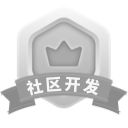
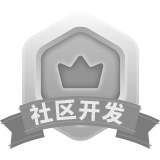
首页勋章和媒体新建调整

Changed region(s): [[0.0, 0.125, 1.0, 0.9375], [0.3438, 0.3125, 0.6562, 0.5625]]

diff --git a/src/components/superOperate/superOperate_index.vue b/src/components/superOperate/superOperate_index.vue
@@ -3,7 +3,14 @@
     <div class="ad_index_container">
         <div class="index-top-row">
             <div class="left-layout">
-                <personal-info :cityRank='cityRank' :user-info="userInfo" :honor-img="companyHonor" :linkArr="linkArrNew"></personal-info>
+                <personal-info :cityRank='cityRank' :user-info="userInfo" :honor-img="companyHonor" :linkArr="linkArrNew" :imgSize="[72, 72]">
+                    <template slot-scope="{showImgNum}">
+                        <el-tooltip v-for="(item,index) of companyHonor" :key="index" effect="dark" placement="top">
+                            <span v-if="item.title" slot="content">{{item.title}}</span>
+                            <img v-show="index < showImgNum" style="width: 72px; height: 72px;" :src="item.url" :alt="item.title" :title="item.title">
+                        </el-tooltip>
+                    </template>
+                </personal-info>
                 <div class="card-group">
                     <el-row :gutter="24" style="margin-bottom: 24px;">
                         <el-col :span="8"><chart-card :cardData="cardData1"></chart-card></el-col>
@@ -1185,28 +1192,28 @@
                 };
                 let tempCompanyHonor = {
                     topIncrResCnt: {
-                        title: '社区新开发TOP',
-                        url: require('../../assets/images/index/communityMedal.png'),
+                        title: '上月社区新开发TOP',
+                        url: require('../../assets/images/index/communityMedal.gif'),
                         urlFalse:require('../../assets/images/index/communityDefault.png')
                     },
                     topNationwideContract: {
-                        title: '全国销售额TOP',
-                        url: require('../../assets/images/index/saleMedal.png'),
+                        title: '上月全国销售额TOP',
+                        url: require('../../assets/images/index/saleMedal.gif'),
                         urlFalse:require('../../assets/images/index/saleDefault.png')
                     },
                     topNativeContract: {
-                        title: '本地销售额TOP',
-                        url: require('../../assets/images/index/localSaleMedal.png'),
+                        title: '上月本地销售额TOP',
+                        url: require('../../assets/images/index/localSaleMedal.gif'),
                         urlFalse:require('../../assets/images/index/localSaleDefault.png')
                     },
                     topOnPubRate: {
-                        title: '城市上刊率TOP',
-                        url: require('../../assets/images/index/skMedal.png'),
+                        title: '上月城市上刊率TOP',
+                        url: require('../../assets/images/index/skMedal.gif'),
                         urlFalse:require('../../assets/images/index/skDefault.png')
                     },
                     topPlanCnt: {
-                        title: '成单订单量TOP',
-                        url: require('../../assets/images/index/orderMedal.png'),
+                        title: '上月成单订单量TOP',
+                        url: require('../../assets/images/index/orderMedal.gif'),
                         urlFalse:require('../../assets/images/index/orderDefault.png')
                     }
                 }
@@ -1217,14 +1224,20 @@
                     )
                     .then((res) => {
                     if (res.data.SysCode === 200200) {
+                        let highlightArr = [],
+                            darkArr = [];
                         Object.keys(res.data.data).forEach(key=>{
                             if(tempCompanyHonor[key]) {
                                 if(res.data.data[key] == 0) {
                                     tempCompanyHonor[key].url = tempCompanyHonor[key].urlFalse
+                                    tempCompanyHonor[key].title = tempCompanyHonor[key].title+'(未获得)'
+                                    darkArr.push(tempCompanyHonor[key])
+                                } else {
+                                    highlightArr.push(tempCompanyHonor[key])
                                 }
-                                this.companyHonor.push(tempCompanyHonor[key])
                             }
                         })
+                        this.companyHonor = highlightArr.concat(darkArr)
                     } else {
                         sessFun.messageFun("warning", res.data.MSG);
                     }
@@ -2229,7 +2242,7 @@
         width: 12px;
         height: 12px;
         margin: 0 4px 0 24px;
-        border-radius: 1px;
+        border-radius: 2px;
     }
     .blue-diamond {
         background: #1890FF;
@@ -2309,11 +2322,8 @@
         align-items: center;
         justify-content: space-between;
         margin-bottom: 24px;
-        & > div {
-            // flex: 1;
-        }
         .date-interval {
-            margin: 0 24px 0 auto;
+            margin: 0 0 0 auto;
             font-size: 14px;
             font-weight: 400;
             color: rgba(0, 0, 0, 0.45);

diff --git a/src/components/common/mediaInput.vue b/src/components/common/mediaInput.vue
@@ -55,7 +55,6 @@
                                 <el-col :span="6" class="el_col_box">
                                     <el-form-item label="资源名称" prop="resname">
                                         <el-autocomplete
-                                            v-if="customPermission.resSearchPermission"
                                             v-model="recForm.resname"
                                             :fetch-suggestions="getResNameByFangJiaWang"
                                             placeholder=""
@@ -63,12 +62,7 @@
                                             @select="changeResName"
                                             @blur="blurFun('resname')">
                                         </el-autocomplete>
-                                        <el-input
-                                            v-else
-                                            v-model="recForm.resname"
-                                            clearable>
-                                        </el-input>
-                                        <el-button v-if="customPermission.resSearchPermission" size="small" type="primary" @click="getResBasicData" class="get_resName_btn"
+                                        <el-button size="small" type="primary" @click="getResBasicData" class="get_resName_btn"
                                                    v-qadn-mta-h5="{id: PathHaveEdit ? 'a002_b006_c000_d000_bt028_ck05' : 'a002_b004_c000_d000_bt019_ck05'}">
                                             检索</el-button>
                                     </el-form-item>
@@ -1335,7 +1329,8 @@
                 rowData: {},
                 changeBeforMediaState: '',
                 customPermission: {},  //巡点权限
-                queryTimeout: null
+                queryTimeout: null,
+                fangJiaWangPrivateCity: []// 房价网权限城市
             };
         },
         computed: {
@@ -1355,6 +1350,9 @@
                 }, 500);
             }
         },
+        created() {
+            this.getFangJiaWangCity()
+        },
         mounted: function () {
             this.customPermission = this.sessionData.customPermission;
             this.resUpdata = []
@@ -1363,6 +1361,22 @@
             this.getADLimit()   // 获取广告限制列表
         },
         methods: {
+            getFangJiaWangCity() {
+                let params = {
+                    "uid": this.sessionData.uID,
+                    "token": this.sessionData.token,
+                    "service": "GetResSearchCity",
+                    "data": {"asrID": this.sessionData.asrID}
+                }
+                api.postApi_new(this.apiVar.Media, params).then(res => {
+                    if (res.data.SysCode == 200200) {
+                        console.log('房价网权限城市', res)
+                        this.fangJiaWangPrivateCity = res.data.data || []
+                    } else {
+                        Message.warning(res.data.MSG);
+                    }
+                })
+            },
             handleClickMedia(tab, event){
                 console.log(tab, event)
             },
@@ -1405,6 +1419,12 @@
             },
             // 远程获取房价网的小区名称
             getResNameByFangJiaWang(queryString, callback){
+                let flag = this.fangJiaWangPrivateCity.some(item=>{
+                    return item.cityId == this.recForm.city[this.recForm.city.length-1]
+                })
+                if(!flag) {
+                    return
+                }
                 if(queryString){
                     if(this.resAddres.city){
                         let params = {
@@ -1454,6 +1474,13 @@
             },
             // 根据所选的资源名称拉取房价网数据
             getResBasicData() {
+                let flag = this.fangJiaWangPrivateCity.some(item=>{
+                    return item.cityId == this.recForm.city[this.recForm.city.length-1]
+                })
+                if(!flag) {
+                    sessFun.messageFun('warning',`没有权限访问对应的资源(您未开通城市${this.resAddres.city}的权限)`)
+                    return
+                }
                 if (this.recForm.resname !== '' && this.resAddres.area !== '' && this.resAddres.city !== '') {
                     let params = {
                         // uid: this.sessionData.uID,

diff --git a/src/components/common/components/personalInfo.vue b/src/components/common/components/personalInfo.vue
@@ -13,12 +13,12 @@
         </div>
         <div v-if="honorImg.length>0" class="line-vertical"></div>
         <div class="item-two" v-if="honorImg.length>0">
-            <img v-for="(item,index) of honorImg" :key="index" :src="item.url" :alt="item.title" :title="item.title">
+            <slot :showImgNum="showImgNum"></slot>
         </div>
-        <div class="overflow-img">●●●</div>
-        <div v-if="linkArr.length>0" class="line-vertical"></div>
+        <div v-show="showImgNum < honorImg.length && showImgNum > 0" class="overflow-img">●●●</div>
+        <div v-if="linkArr.length>0 && showImgNum > 0" class="line-vertical"></div>
         <div class="item-three">
-                <home-link class="cell-group" :link="linkArr"></home-link>
+            <home-link class="cell-group" :link="linkArr"></home-link>
         </div>
     </div>
 </template>
@@ -47,15 +47,36 @@
             cityRank: {
                 type: [String, Number],
                 default: ''
+            },
+            imgSize: {
+                type: Array,
             }
         },
         data() {
             return {
+                showImgNum: 0
+            }
+        },
+        watch: {
+            honorImg(val) {
+                // 数据更改并渲染时触发
+                this.$nextTick(()=>{
+                    this.honorImg.length && !this.showImgNum && this.setEllipsis()
+                })
             }
         },
         methods: {
+            setEllipsis() {
+                let imgGroupWidth = $('.item-two')[0]
+                if(!imgGroupWidth || !this.imgSize) return
+                imgGroupWidth = imgGroupWidth.getBoundingClientRect().width
+                this.showImgNum = Math.floor(imgGroupWidth / (this.imgSize[0]+10))
+            }
         },
         mounted() {
+            window.addEventListener("resize", ()=>{
+                this.setEllipsis()
+            })
         }
     }
 </script>
@@ -129,13 +150,16 @@ li {
     }
     .item-two {
         display: flex;
-        justify-content: space-between;
+        justify-content: flex-start;
+        flex-grow: 1;
         margin: 0 27px 0 -5px;
         overflow: hidden;
-        img {
-            margin: 0 5px;
+        .img-default-size {
             width: 51px;
             max-height: 62px;
+        }
+        img {
+            margin: 0 5px;
         }
     }
     .item-three {
@@ -157,20 +181,19 @@ li {
         background: rgba(241, 241, 241, 1);
     }
     .overflow-img {
-        display: none;
         width: 51px;
         margin: auto 27px auto 0;
         text-align: center;
         color: rgba(0, 0, 0, 0.2);
 
     }
-    @media screen and (max-width: 1420px) {
+    /* @media screen and (max-width: 1420px) {
         .overflow-img {
             display: block;
         }
         .item-two {
             width: 183px;
         }
-    }
+    } */
 }
 </style>

diff --git a/src/components/media/media_index.vue b/src/components/media/media_index.vue
@@ -3,7 +3,11 @@
 		<div class="ad_index_container">
 			<div class="index-top-row">
 				<div class="left-layout">
-					<personal-info :user-info="userInfo" :honor-img="companyHonor" :linkArr="linkArrNew"></personal-info>
+					<personal-info :user-info="userInfo" :honor-img="companyHonor" :imgSize="[51, 62]" :linkArr="linkArrNew">
+							<template slot-scope="{showImgNum}">
+								<img v-show="index < showImgNum" v-for="(item,index) of companyHonor" :key="index" style="width: 51px; height: 62px;" :src="item.url" :alt="item.title" :title="item.title">
+							</template>
+					</personal-info>
 					<div class="card-group">
 						<el-row :gutter="24" style="margin-bottom: 24px;">
 							<el-col :span="8"><chart-card :cardData="cardData1"></chart-card></el-col>

diff --git a/src/components/common/components/publishRate.vue b/src/components/common/components/publishRate.vue
@@ -68,7 +68,7 @@
 </template>
 <script>
 import $ from "jquery";
-import { initMap, snowStyle, whiteStyle } from "@/commonFun/mapCommon.js";
+import { initMap, whiteStyle} from "@/commonFun/mapCommon.js";
 import api from "../../../api/api";
 import sessFun from "../../../commonFun/sessFun.js";
 export default {
